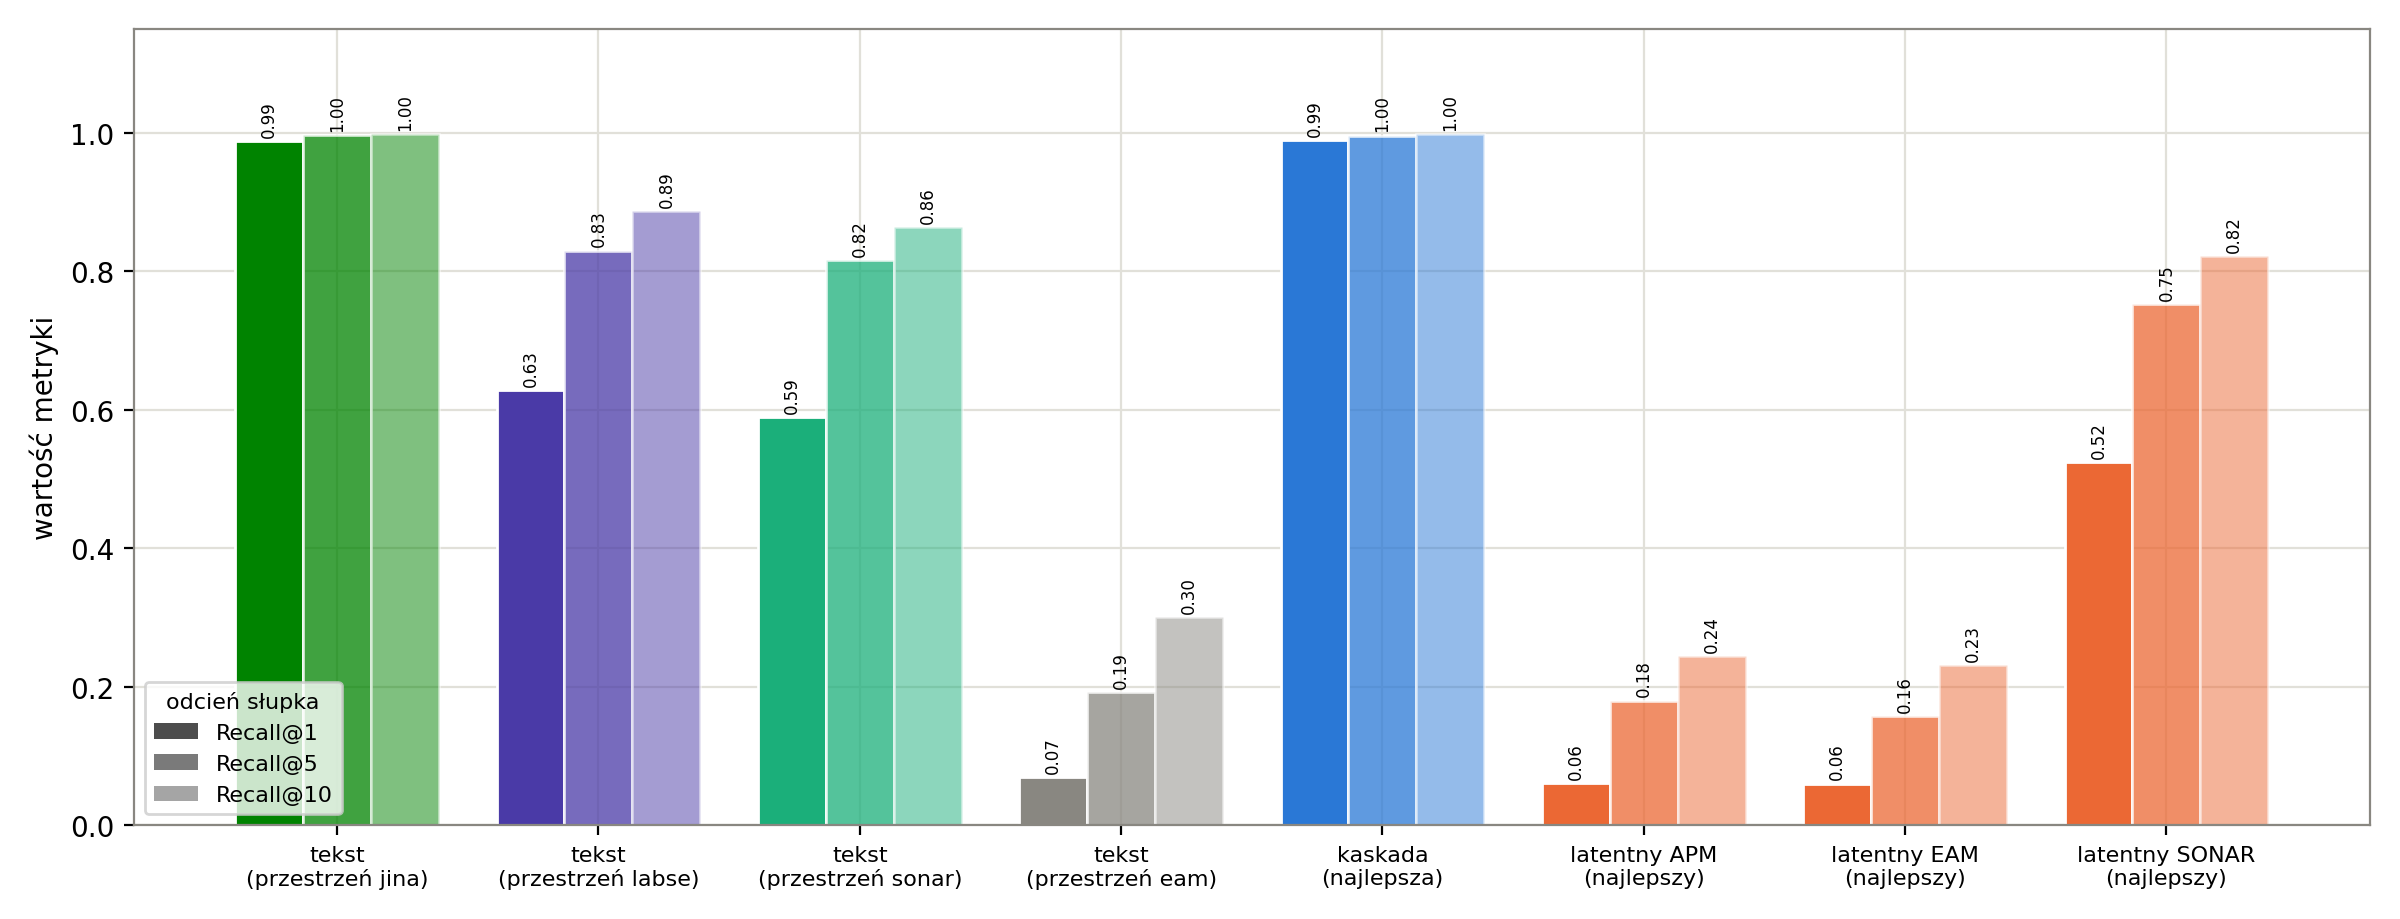
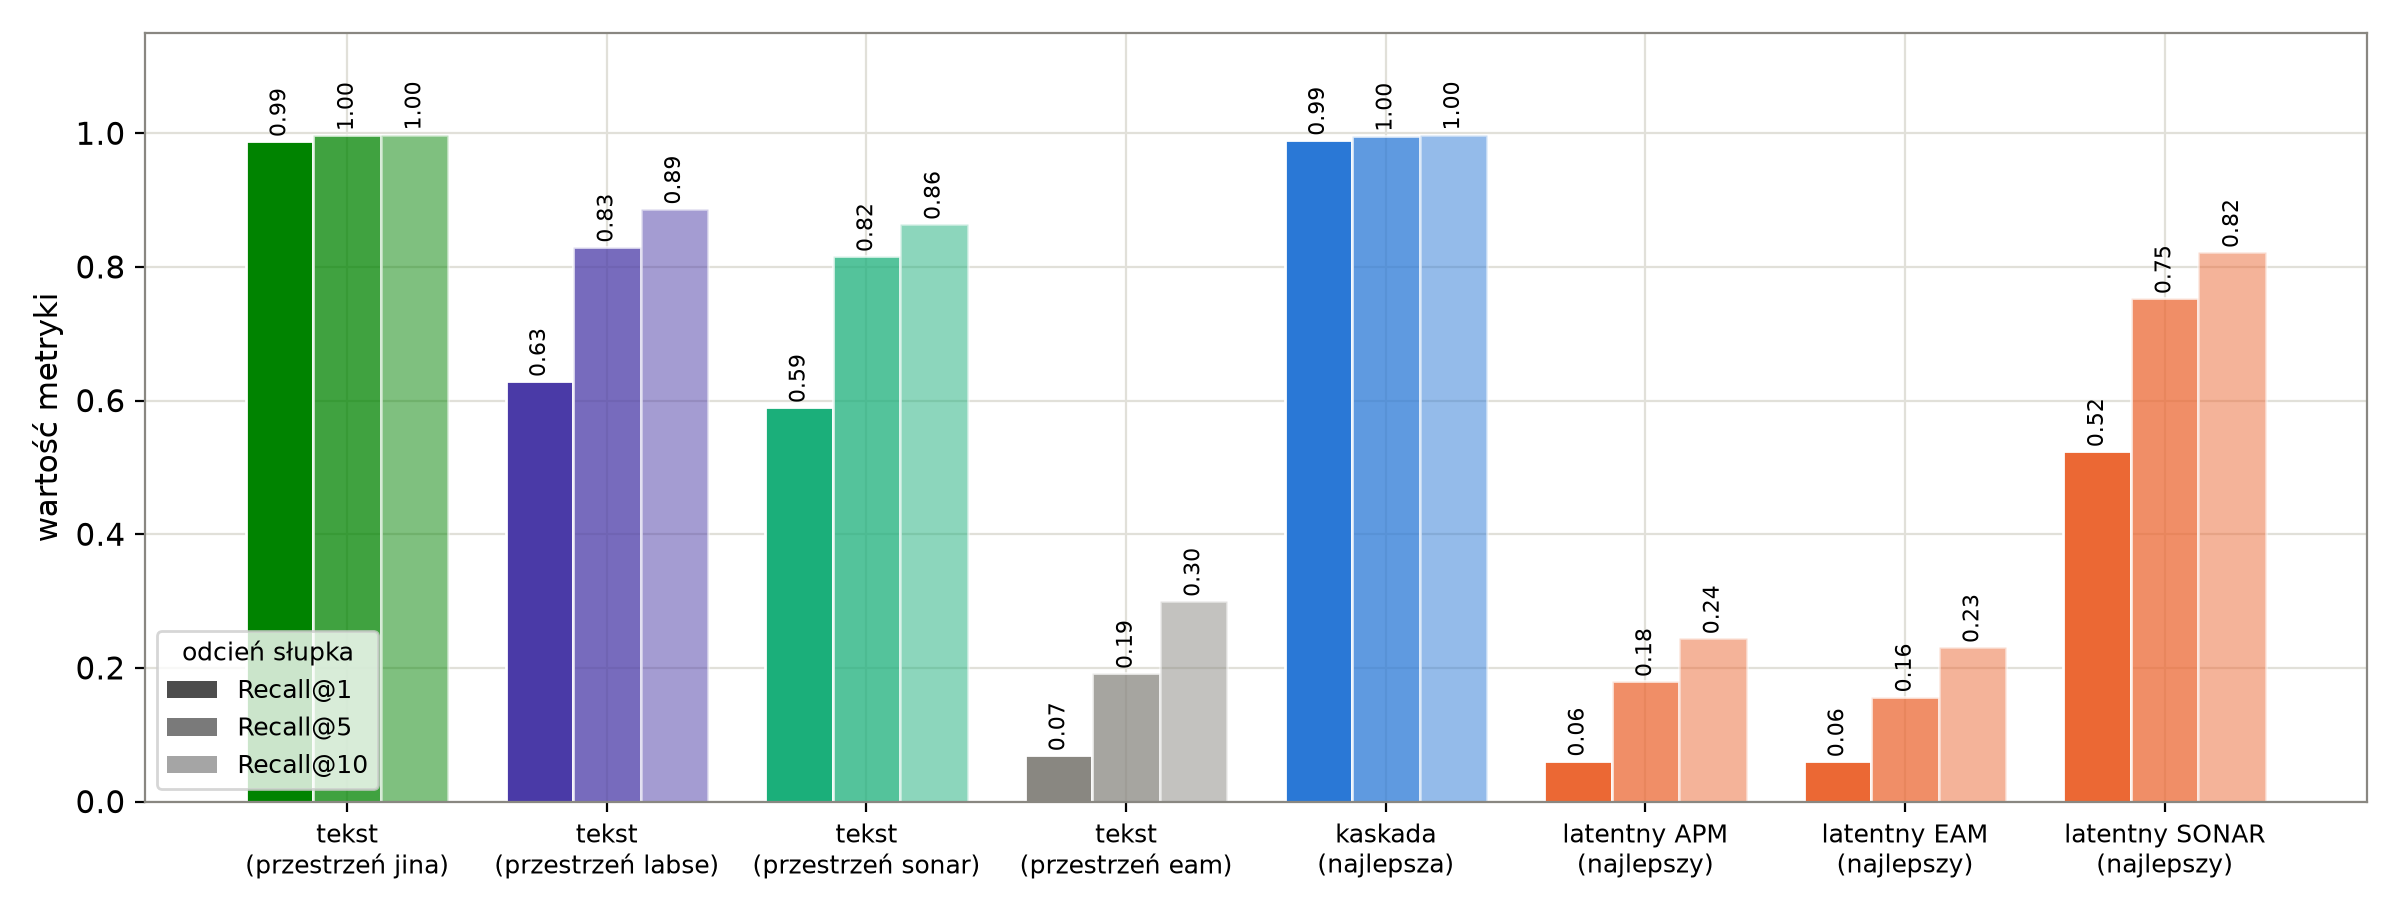
Wykresy wyników przegenerowane z większą czcionką, panele jeden pod drugim

diff --git a/chapters/eksperymenty.tex b/chapters/eksperymenty.tex
@@ -256,7 +256,7 @@ przedstawiono na rysunku~\ref{fig:wynikiWielkosc}.
 \begin{figure}[htbp]
     \centering
     \includegraphics[width=\linewidth]{figures/wyniki/wyniki_wielkosc.png}
-    \caption{Te same konfiguracje na zestawie stu i tysiąca pytań, po lewej Recall@1, po prawej
+    \caption{Te same konfiguracje na zestawie stu i tysiąca pytań, u góry Recall@1, u dołu
     Recall@5. Zestaw mniejszy jest podzbiorem większego, a nagrania w obu pochodzą z syntezy
     XTTS-v2, więc jedyną różnicą jest wielkość zbioru pytań i korpusu.}
     \label{fig:wynikiWielkosc}
@@ -313,8 +313,8 @@ w rozbiciu na system syntezy i model ASR przedstawiono na rysunku~\ref{fig:wynik
 \begin{figure}[htbp]
     \centering
     \includegraphics[width=\linewidth]{figures/wyniki/wyniki_kaskada.png}
-    \caption{Kaskada w rozbiciu na system syntezy mowy i model ASR na zestawie tysiąca pytań. Po
-    lewej jakość transkrypcji, po prawej jakość wyszukiwania dla obu modeli embeddingu tekstu.
+    \caption{Kaskada w rozbiciu na system syntezy mowy i model ASR na zestawie tysiąca pytań. U
+    góry jakość transkrypcji, u dołu jakość wyszukiwania dla obu modeli embeddingu tekstu.
     Wybór systemu syntezy zmienia WER kilkukrotnie, na wyszukiwanie przenosi się natomiast
     w stopniu zależnym od modelu embeddingowego.}
     \label{fig:wynikiKaskada}
@@ -461,8 +461,8 @@ medium z adapterem LoRA dostrojonym do polskiej mowy medycznej na zbiorze ADMEDV
 \begin{figure}[htbp]
     \centering
     \includegraphics[width=\linewidth]{figures/wyniki/wyniki_jezyk.png}
-    \caption{Warianty językowe na zestawie stu pytań i stu dokumentów. Po lewej jakość
-    wyszukiwania, po prawej jakość transkrypcji; model oznaczony jako Whisper dostrojony to
+    \caption{Warianty językowe na zestawie stu pytań i stu dokumentów. U góry jakość
+    wyszukiwania, u dołu jakość transkrypcji; model oznaczony jako Whisper dostrojony to
     Whisper medium z adapterem LoRA wytrenowanym na zbiorze ADMEDVoice \cite{ADMEDVoice}. Oba warianty z pytaniem polskim korzystają z tego
     samego nagrania, więc ich wskaźniki błędu transkrypcji są identyczne; różni je wyłącznie język
     korpusu.}
@@ -738,7 +738,7 @@ a wpływ pozostałych zaburzeń na rysunku~\ref{fig:wynikiSzumTypy}.
     \centering
     \includegraphics[width=0.95\linewidth]{figures/wyniki/wyniki_szum_snr.png}
     \caption{Jakość wyszukiwania w funkcji stosunku sygnału do szumu dla szumu białego, zestaw
-    tysiąca pytań. Po lewej wartość bezwzględna, po prawej część jakości zachowana względem
+    tysiąca pytań. U góry wartość bezwzględna, u dołu część jakości zachowana względem
     przebiegu bez zaburzeń, co pozwala porównać tempo degradacji ścieżek startujących z różnych
     poziomów. Linią ciągłą oznaczono ścieżki latentne, przerywaną kaskadowe; dla kaskady zmierzono
     warunki 5 i 15~dB.}
@@ -791,7 +791,7 @@ wielkości w tych samych warunkach.
     \centering
     \includegraphics[width=\linewidth]{figures/wyniki/wyniki_szum_wer.png}
     \caption{Jakość transkrypcji i jakość wyszukiwania w tych samych warunkach, zestaw tysiąca
-    pytań, mowa syntezowana modelem SeamlessM4T. Po lewej wskaźnik błędu transkrypcji, po prawej
+    pytań, mowa syntezowana modelem SeamlessM4T. U góry wskaźnik błędu transkrypcji, u dołu
     część Recall@5 zachowana względem przebiegu bez zaburzeń.}
     \label{fig:wynikiSzumWer}
 \end{figure}
